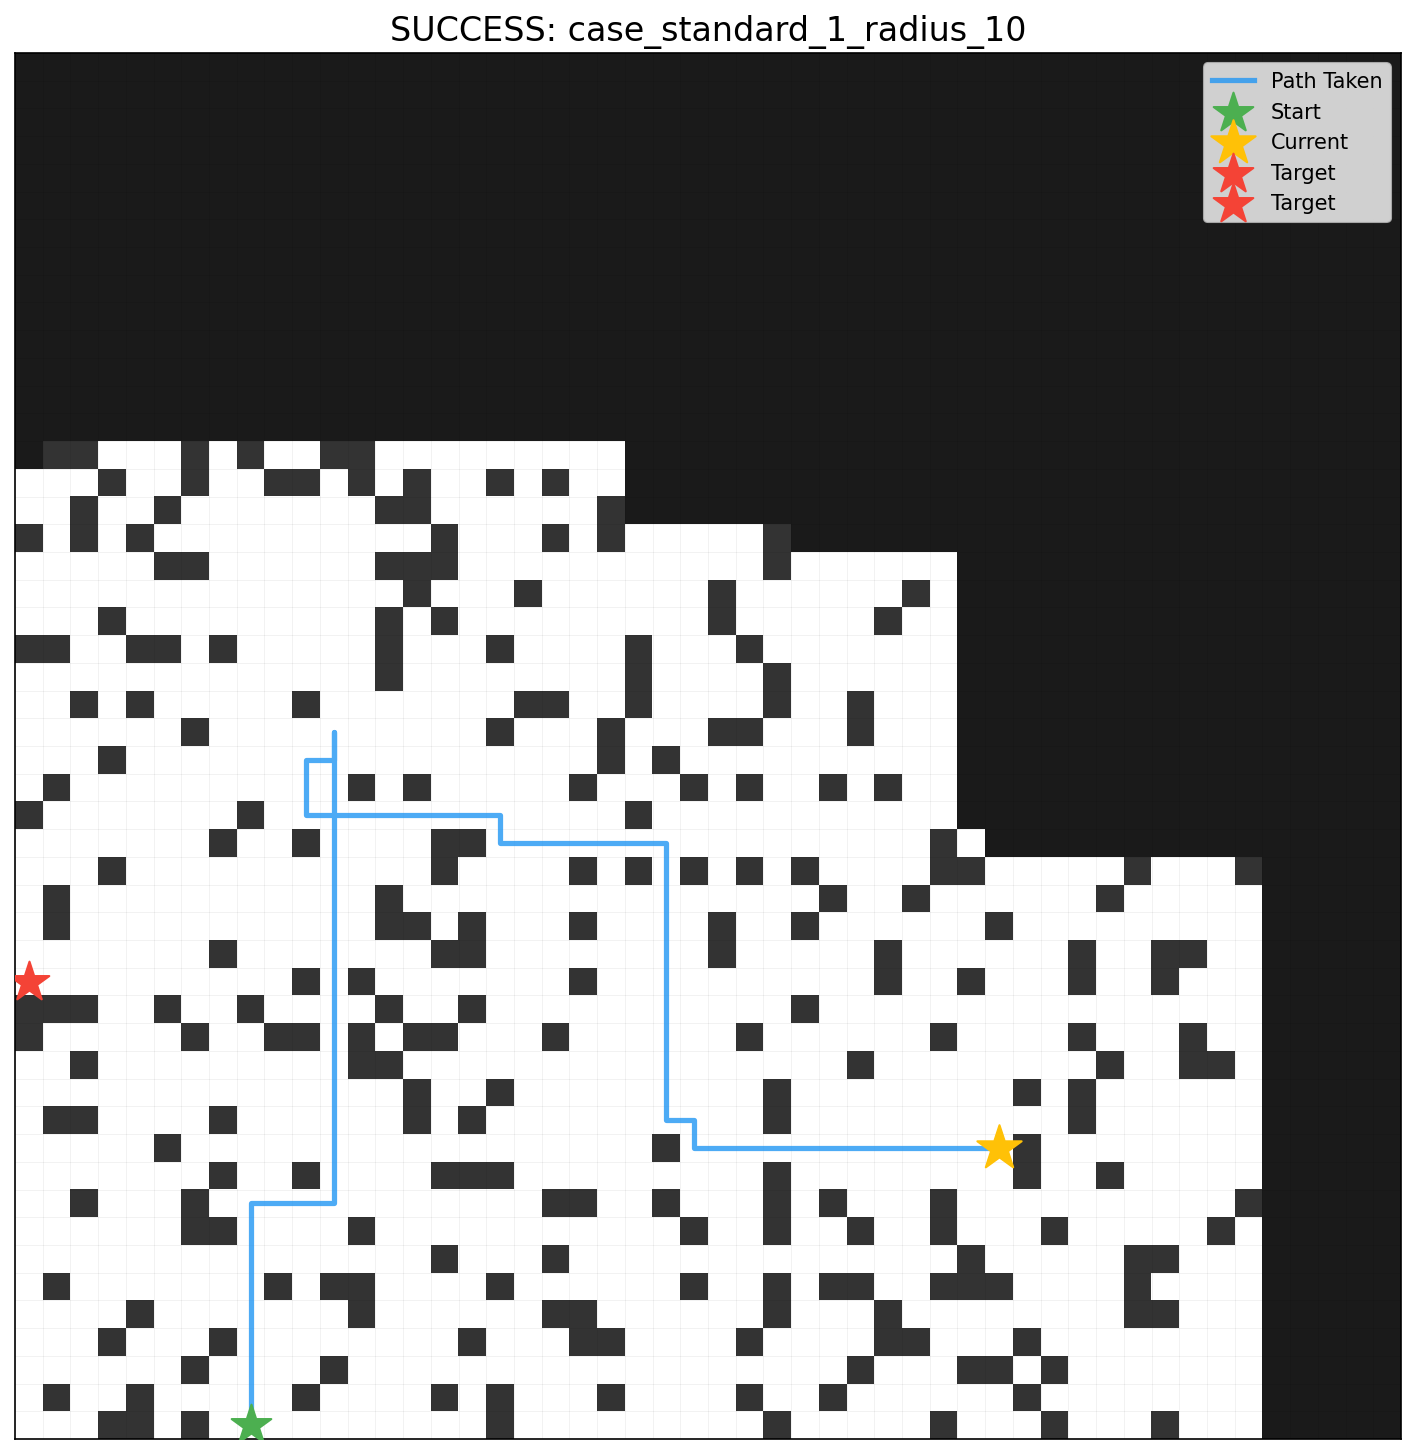
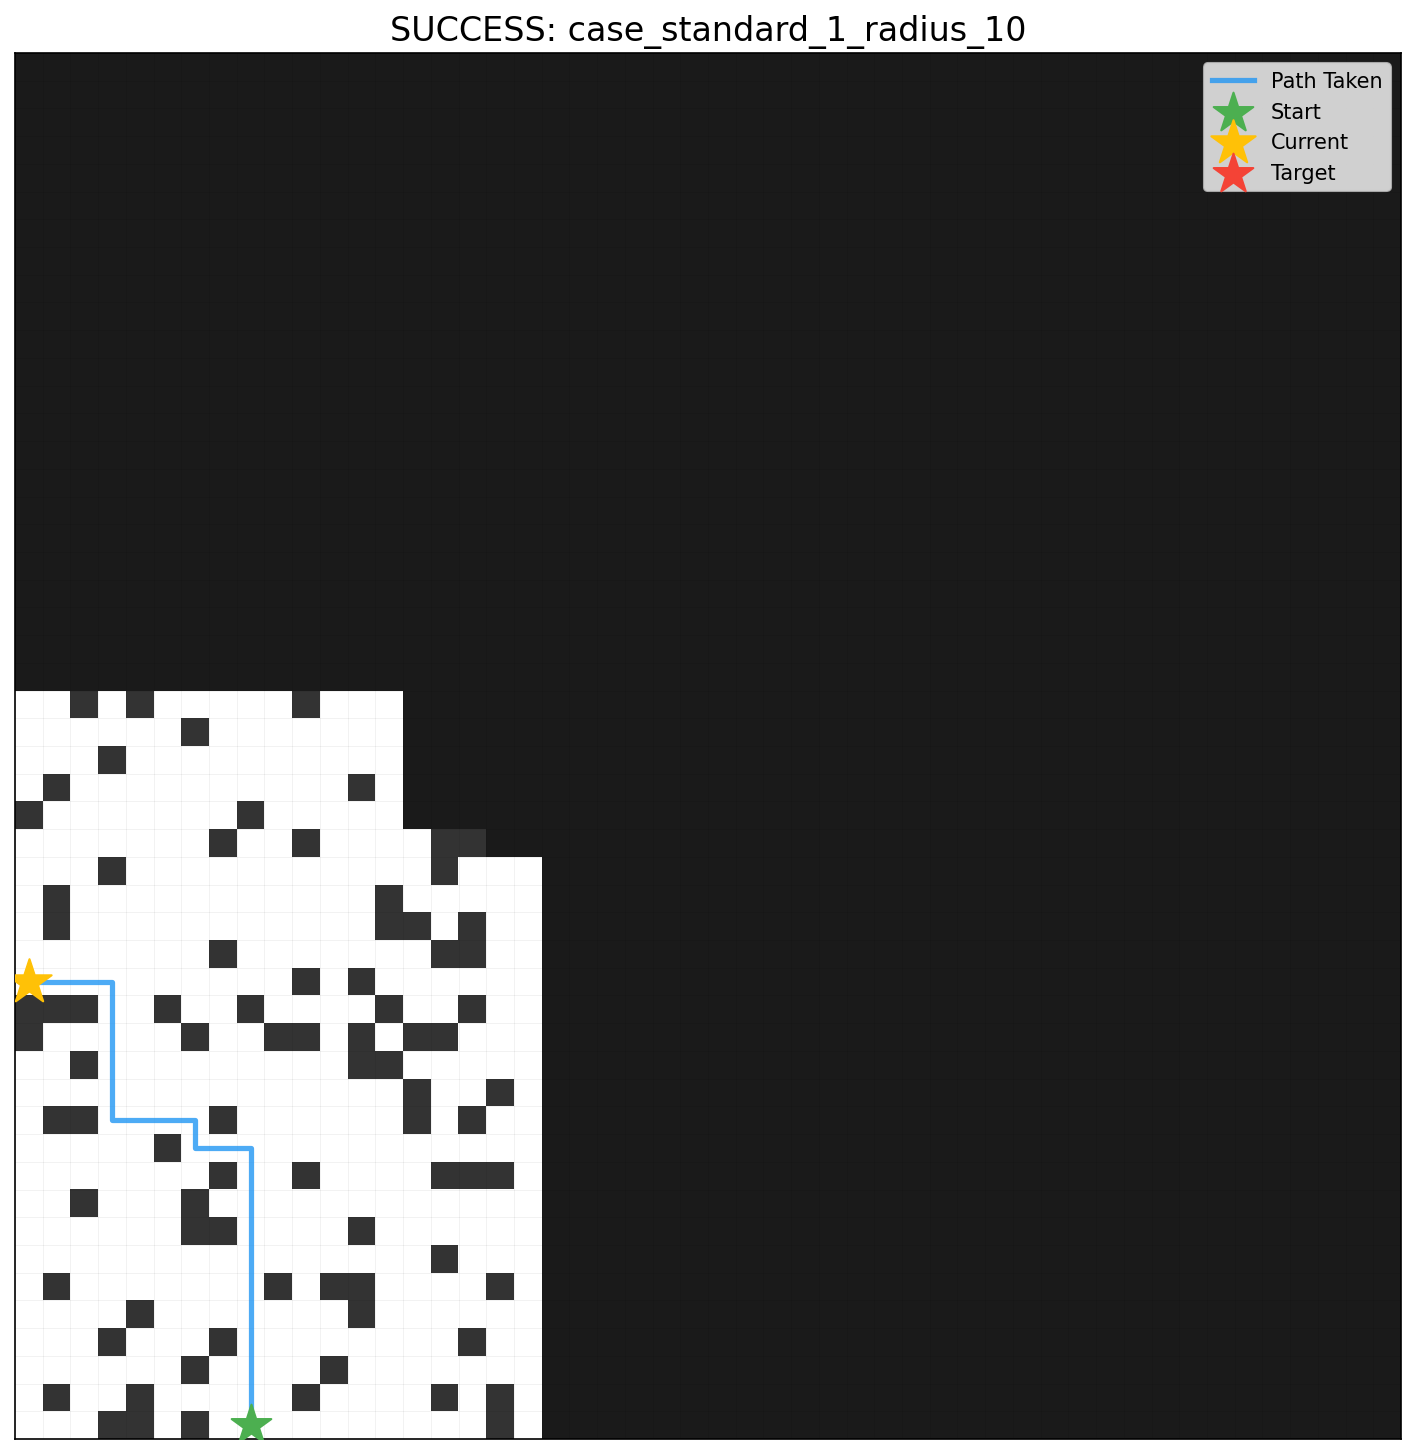
结合A*搜索优化后的代码，效果更好一点

diff --git a/candidate_planner.py b/candidate_planner.py
@@ -1,61 +1,67 @@
 import numpy as np
 import random
+import heapq
 from collections import deque
 
 class Planner:
     def __init__(self, map_shape: tuple[int, int], view_radius: int):
-        self.known_map = np.full(map_shape, -1, dtype=int)  # -1:未知, 0:空地, 1:障碍
+        self.known_map = np.full(map_shape, -1, dtype=int)
         self.view_radius = view_radius
         self.path_taken = []
         self.map_shape = map_shape
-        self.frontier = set()  # 维护边界点集合（空间换时间）
+        self.frontier = set()
+        self.prioritized_frontier = []  # 按优先级排序的边界点
+        self.current_path = []  # 当前规划的路径
+        self.last_target = None  # 上次规划的目标
         
     def update_knowledge(self, current_pos: tuple[int, int], local_view: np.ndarray):
         r = self.view_radius
         cx, cy = current_pos
         h, w = self.map_shape
         
-        # 计算局部视图在全局地图中的边界
         y_start, y_end = max(0, cy - r), min(h, cy + r + 1)
         x_start, x_end = max(0, cx - r), min(w, cx + r + 1)
         
-        # 更新全局地图
         self.known_map[y_start:y_end, x_start:x_end] = local_view
         
-        # 更新边界点：只更新受影响的区域（高效的关键）
         updated_region = [
             max(0, y_start-1), min(h, y_end+1),
             max(0, x_start-1), min(w, x_end+1)
         ]
         
-        # 清除原有边界点（仅更新区域内的）
+        # 清除原有边界点
         for point in list(self.frontier):
             x, y = point
             if updated_region[0] <= y < updated_region[1] and \
                updated_region[2] <= x < updated_region[3]:
                 self.frontier.discard(point)
         
-        # 添加新边界点（仅更新区域内）
+        # 添加新边界点并计算优先级
+        new_frontier = set()
         for y in range(updated_region[0], updated_region[1]):
             for x in range(updated_region[2], updated_region[3]):
                 if self.known_map[y, x] != 0:
-                    continue  # 只考虑自由区域
+                    continue
                 
-                # 检查四个方向是否有未知区域
                 for dx, dy in [(0, 1), (0, -1), (1, 0), (-1, 0)]:
                     nx, ny = x + dx, y + dy
                     if (0 <= ny < h and 0 <= nx < w and 
                         self.known_map[ny, nx] == -1):
+                        # 计算到当前位置的距离作为优先级
+                        dist = abs(x - cx) + abs(y - cy)
+                        new_frontier.add((dist, (x, y)))
                         self.frontier.add((x, y))
                         break
+        
+        # 按距离排序边界点
+        self.prioritized_frontier = sorted(new_frontier)
 
     def plan_next_step(self, current_pos: tuple[int, int], 
                       all_possible_targets: list[tuple[int, int]]) -> tuple[int, int]:
-        # 记录路径
         if not self.path_taken or self.path_taken[-1] != current_pos:
             self.path_taken.append(current_pos)
         
-        # 高效目标点检查：使用集合加快查找
+        # 过滤可达目标
         reachable_targets = set()
         for target in all_possible_targets:
             tx, ty = target
@@ -68,9 +74,17 @@ class Planner:
         if current_pos in reachable_targets:
             return current_pos
         
-        # 优化1：直接检查邻近点是否为目标或边界点
+        # 尝试重用现有路径
+        if self.last_target == all_possible_targets and self.current_path:
+            next_step = self.current_path.pop(0)
+            nx, ny = next_step
+            if (0 <= ny < self.map_shape[0] and 
+                0 <= nx < self.map_shape[1] and
+                self.known_map[ny, nx] == 0):
+                return next_step
+        
+        # 检查邻近点
         cx, cy = current_pos
-        nearest_target = None
         motions = [(0, 1), (0, -1), (1, 0), (-1, 0)]
         random.shuffle(motions)
         
@@ -78,7 +92,6 @@ class Planner:
             nx, ny = cx + dx, cy + dy
             neighbor = (nx, ny)
             
-            # 边界检查
             if not (0 <= ny < self.map_shape[0] and 0 <= nx < self.map_shape[1]):
                 continue
                 
@@ -86,82 +99,103 @@ class Planner:
             if neighbor in reachable_targets:
                 return neighbor
                 
-            # 发现边界点（直接可达）
-            if self.known_map[ny, nx] == 0 and neighbor in self.frontier:
-                nearest_target = neighbor  # 记录但不立即返回，继续检查剩余方向
+            # 发现边界点
+            if self.known_map[ny, nx] == 0 and (nx, ny) in self.frontier:
+                return neighbor
         
-        if nearest_target:
-            return nearest_target
-        
-        # 优化2：多源BFS同时搜索目标和边界
-        queue = deque([current_pos])
-        visited = {current_pos}
+        # A*算法搜索
+        open_set = []
+        heapq.heappush(open_set, (0, current_pos))
+        g_score = {current_pos: 0}
         parent = {current_pos: None}
         
         found_target = None
         found_frontier = None
         
-        while queue:
-            x, y = queue.popleft()
+        while open_set:
+            _, (x, y) = heapq.heappop(open_set)
             pos = (x, y)
             
             # 找到目标点
-            if not found_target and pos in reachable_targets:
+            if pos in reachable_targets:
                 found_target = pos
-            
-            # 找到边界点
-            if not found_frontier and pos in self.frontier:
-                found_frontier = pos
-            
-            # 已找到两种目标则退出（优先满足任务目标）
-            if found_target or found_frontier:
-                # 如果已经找到目标点，不需要继续寻找边界点
-                if found_target: 
-                    break
-                # 如果当前队列中有目标点则继续寻找
-                if any(p in reachable_targets for p in queue):
-                    continue
                 break
+                
+            # 找到边界点
+            if found_frontier is None and pos in self.frontier:
+                found_frontier = pos
                 
             # 扩展邻居
             for dx, dy in [(0, 1), (0, -1), (1, 0), (-1, 0)]:
                 nx, ny = x + dx, y + dy
                 neighbor = (nx, ny)
                 
-                # 边界检查
                 if not (0 <= ny < self.map_shape[0] and 0 <= nx < self.map_shape[1]):
                     continue
-                
-                # 访问检查：未访问且可通行
-                if (self.known_map[ny, nx] == 0 and 
-                    neighbor not in visited):
                     
-                    visited.add(neighbor)
-                    queue.append(neighbor)
+                if self.known_map[ny, nx] != 0:
+                    continue
+                    
+                tentative_g = g_score.get(pos, float('inf')) + 1
+                
+                if neighbor not in g_score or tentative_g < g_score[neighbor]:
+                    g_score[neighbor] = tentative_g
+                    
+                    # 启发函数：到最近目标的曼哈顿距离
+                    if reachable_targets:
+                        h_score = min(abs(nx - tx) + abs(ny - ty) for tx, ty in reachable_targets)
+                    else:
+                        # 如果没有可达目标，使用到最近边界点的距离
+                        if self.prioritized_frontier:
+                            h_score = self.prioritized_frontier[0][0]
+                        else:
+                            h_score = 0
+                    
+                    f_score = tentative_g + h_score
+                    heapq.heappush(open_set, (f_score, neighbor))
                     parent[neighbor] = pos
         
-        # 回溯路径找到第一步移动
-        def find_first_step(target):
-            step = target
-            while parent.get(step, current_pos) != current_pos:
-                step = parent[step]
-            return step
+        # 回溯路径
+        def reconstruct_path(target):
+            path = []
+            current = target
+            while current != current_pos:
+                path.append(current)
+                current = parent[current]
+            path.reverse()
+            return path
         
         # 优先返回目标点路径
         if found_target:
-            return find_first_step(found_target)
+            self.current_path = reconstruct_path(found_target)
+            self.last_target = all_possible_targets
+            return self.current_path.pop(0) if self.current_path else current_pos
             
         # 其次返回边界点路径
         if found_frontier:
-            return find_first_step(found_frontier)
+            self.current_path = reconstruct_path(found_frontier)
+            self.last_target = all_possible_targets
+            return self.current_path.pop(0) if self.current_path else current_pos
+        
+        # 尝试使用优先边界点
+        if self.prioritized_frontier:
+            _, nearest_frontier = self.prioritized_frontier[0]
+            # 简单路径规划到最近边界点
+            motions = [(0, 1), (0, -1), (1, 0), (-1, 0)]
+            random.shuffle(motions)
+            for dx, dy in motions:
+                nx, ny = cx + dx, cy + dy
+                if (0 <= ny < self.map_shape[0] and 
+                    0 <= nx < self.map_shape[1] and
+                    self.known_map[ny, nx] == 0):
+                    return (nx, ny)
         
         # 最终回退：随机选择有效移动方向
         for dx, dy in motions:
             nx, ny = cx + dx, cy + dy
             if (0 <= ny < self.map_shape[0] and 
                 0 <= nx < self.map_shape[1] and
-                self.known_map[ny, nx] != 1):  # 避免障碍物
+                self.known_map[ny, nx] != 1):
                 return (nx, ny)
         
-        # 无合法移动时保持原位
         return current_pos
